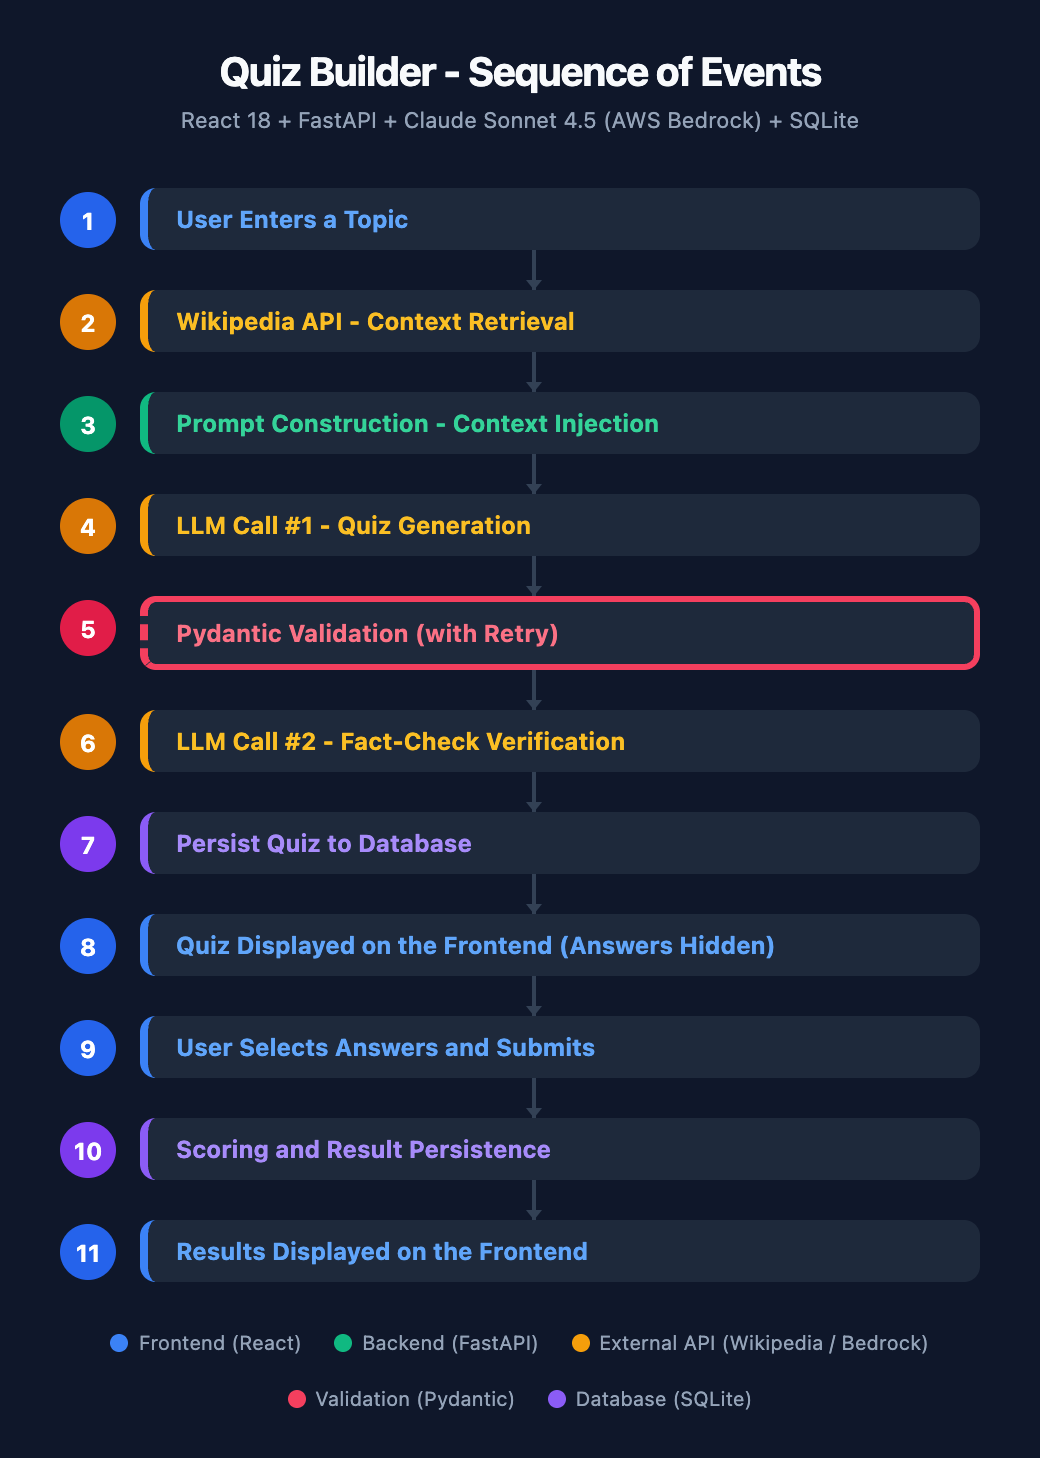
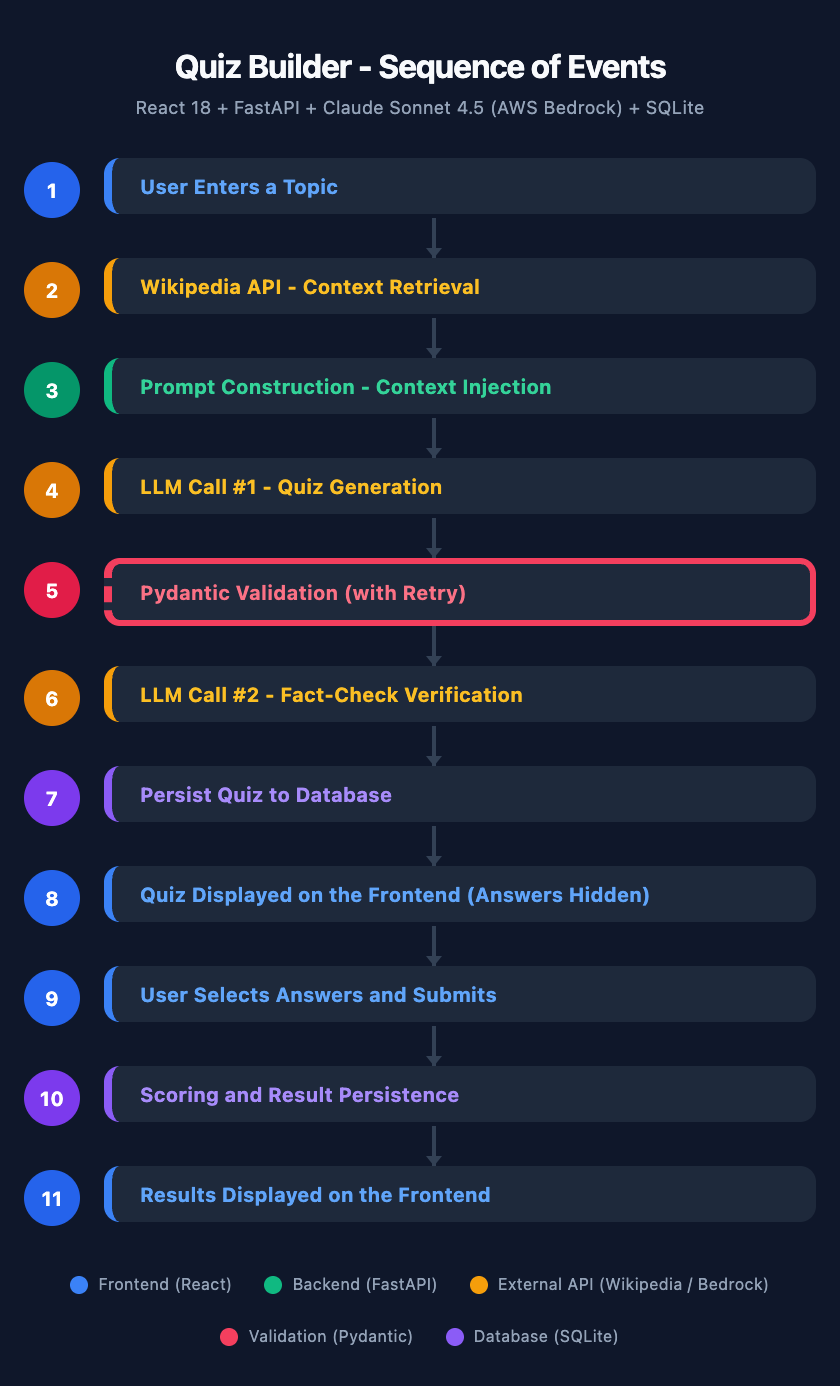
edit doc

diff --git a/presentation/architecture_diagram.html b/presentation/architecture_diagram.html
@@ -17,7 +17,7 @@
 
   h1 {
     text-align: center;
-    font-size: 20px;
+    font-size: 16px;
     font-weight: 700;
     color: #f8fafc;
     margin-bottom: 6px;
@@ -26,9 +26,9 @@
 
   .subtitle {
     text-align: center;
-    font-size: 11px;
+    font-size: 9px;
     color: #94a3b8;
-    margin-bottom: 28px;
+    margin-bottom: 20px;
   }
 
   .sequence {
@@ -54,7 +54,7 @@
     display: flex;
     align-items: center;
     justify-content: center;
-    font-size: 12px;
+    font-size: 10px;
     font-weight: 700;
     color: #fff;
     flex-shrink: 0;
@@ -70,7 +70,7 @@
   }
 
   .step-title {
-    font-size: 12px;
+    font-size: 10px;
     font-weight: 700;
     margin-bottom: 0;
   }
@@ -154,7 +154,7 @@
     display: flex;
     align-items: center;
     gap: 5px;
-    font-size: 10px;
+    font-size: 8px;
     color: #94a3b8;
   }
 
